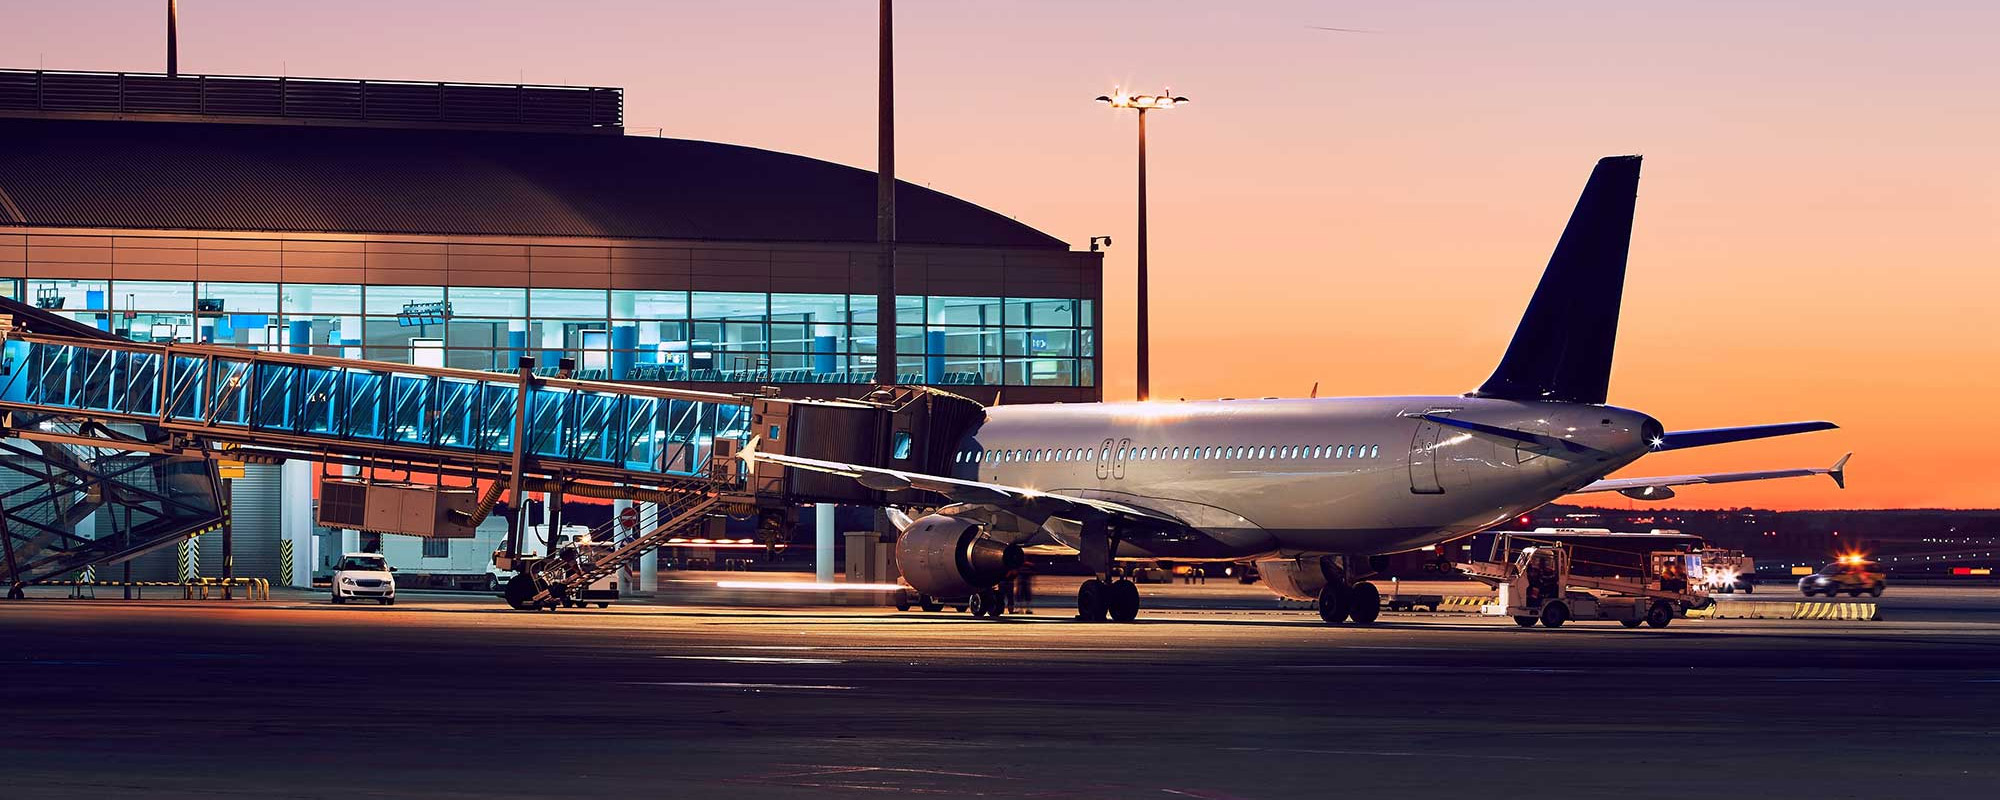
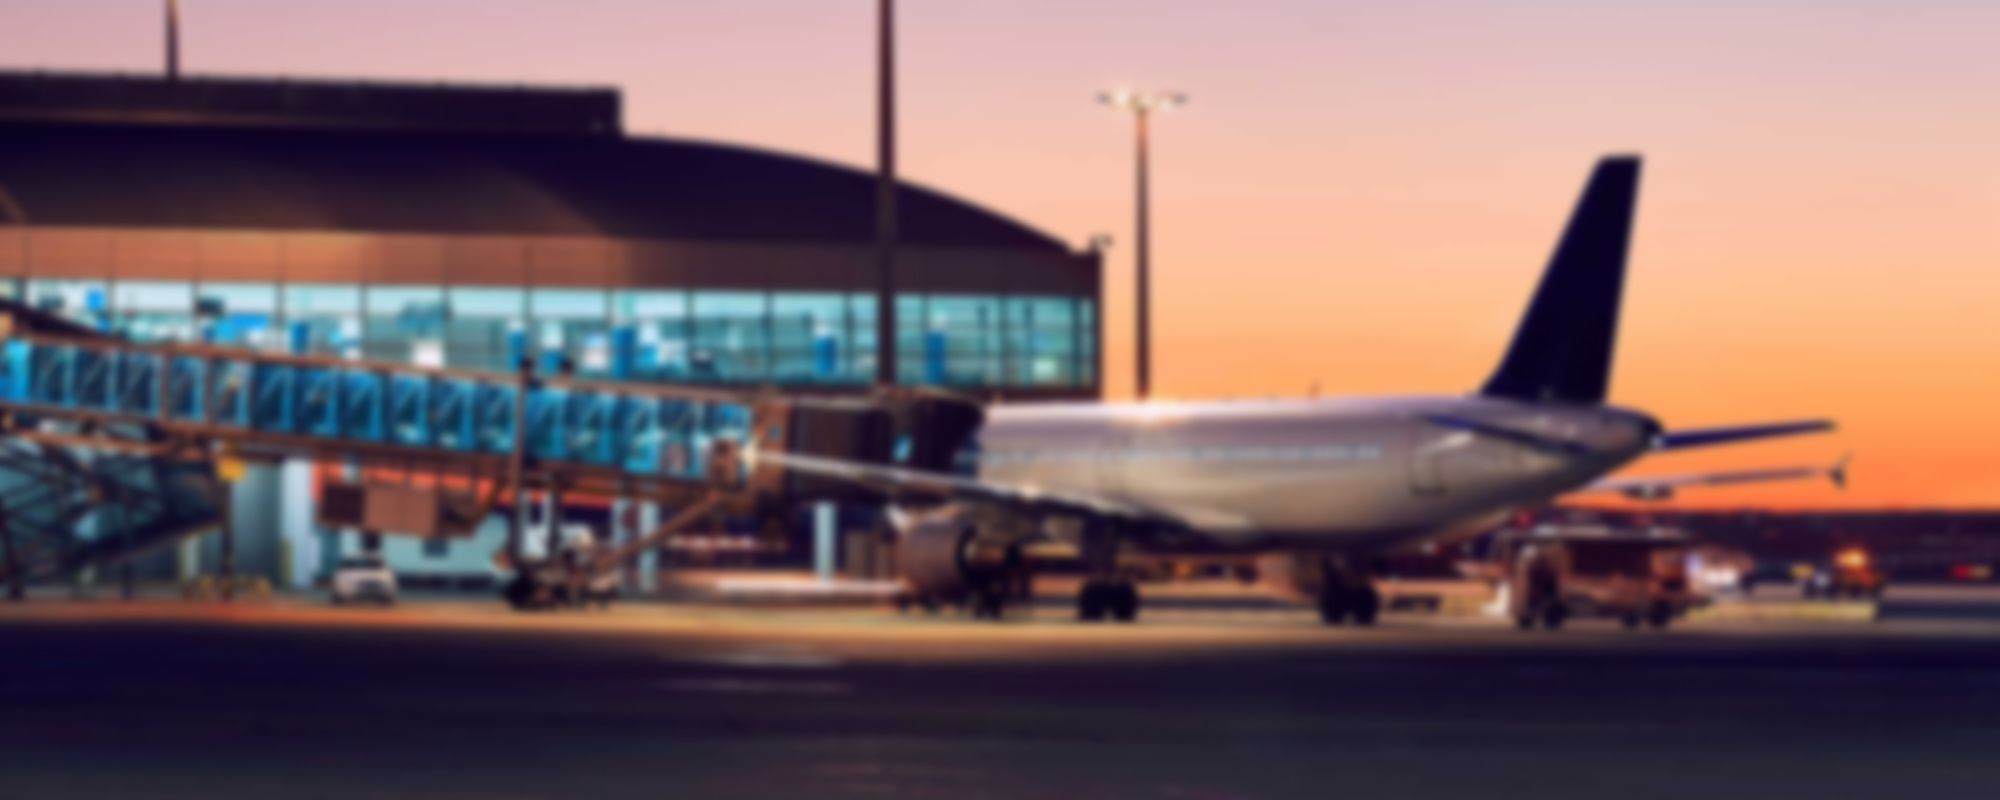
Update front page hero

diff --git a/view/src/components/TypeText/index.tsx b/view/src/components/TypeText/index.tsx
@@ -1,15 +1,86 @@
-import type { FunctionComponent } from "react";
 import './style.css';
+import styled, { keyframes } from "styled-components";
 
-interface TypeTextProps {
-  text: string,
-}
+const typing = keyframes`
+  from {
+    width: 0%
+  }
 
-const TypeText: FunctionComponent<TypeTextProps> = ({ text }) => {
+  to {
+    width: 100%;
+  }
+`;
+
+const fadeBg = keyframes`
+  from {
+    background-color: transparent;
+  }
+
+  to {
+    background-color: #ffcfb7;
+    color: black;
+  }
+`;
+
+const Typing = styled.div`
+  position: absolute;
+  left: 8vw;
+  top: 30vh;
+  font-family: -apple-system, BlinkMacSystemFont, 'Segoe UI', Roboto, Oxygen, Ubuntu, Cantarell, 'Open Sans', 'Helvetica Neue', sans-serif;
+  display: inline-block;
+  color: black;
+`;
+
+const TypedText = styled.div`
+  display: inline-block;
+  overflow: hidden;
+  letter-spacing: 2px;
+  animation:
+    ${typing} 1s steps(30, end) forwards,
+    ${fadeBg} .2s ease-in forwards 3s;
+  white-space: nowrap;
+  font-size: 4rem;
+  font-weight: 700;
+  border-right: 4px solid orange;
+  box-sizing: border-box;
+  color: orange;
+  font-family: "Helvetica Neue", sans-serif;
+`;
+
+const RoundedButton = styled.button`
+  background: #ffcfb7;
+  justify-content: space-between;
+  border: none;
+  border-radius: 0;
+  color: #000000;
+  &:hover {
+    background: white;
+    color: black;
+    transition: background .3s ease-in;
+  }
+`;
+
+const TypeText = ({ text, actions }: { text: string, actions: { name: string, onClick: () => void }[] }) => {
   return (
-    <div className="typing">
-      <div className="type-text">{text}</div>
-    </div>
+    <>
+      <Typing>
+        <TypedText>{text}</TypedText>
+        <div>
+          {actions.map((action, idx) =>
+            <RoundedButton
+              key={`act-${idx}`}
+              onClick={action.onClick}
+            >
+              <svg xmlns="http://www.w3.org/2000/svg" width="16" height="16" fill="currentColor" viewBox="0 0 16 16">
+                <path fill-rule="evenodd" d="M1 8a.5.5 0 0 1 .5-.5h11.793l-3.147-3.146a.5.5 0 0 1 .708-.708l4 4a.5.5 0 0 1 0 .708l-4 4a.5.5 0 0 1-.708-.708L13.293 8.5H1.5A.5.5 0 0 1 1 8"/>
+              </svg>
+              {` ${action.name}`}
+            </RoundedButton>
+          )}
+        </div>
+      </Typing>
+      
+    </>
   );
 };
 

diff --git a/view/src/components/FrontPage/index.tsx b/view/src/components/FrontPage/index.tsx
@@ -13,6 +13,7 @@ import type { CommentData } from "../../types";
 import { useQuery, useMutation, useQueryClient } from "@tanstack/react-query";
 import AlertContext from "../../AlertContext";
 import UserContext from "../../UserContext";
+import { useNavigate } from "react-router";
 
 const toTop = () => window.scrollTo({ top: 0, behavior: "smooth" });
 
@@ -20,6 +21,7 @@ const FrontPage: FunctionComponent = () => {
   const queryClient = useQueryClient();
   const [user] = useContext(UserContext);
   const showAlert = useContext(AlertContext);
+  const navigate = useNavigate();
 
   const { data: comments = [], isLoading } = useQuery<CommentData[]>({
     queryKey: ["comments"],
@@ -51,18 +53,34 @@ const FrontPage: FunctionComponent = () => {
   });
 
   return (
-    <div style={{ color: 'white', height: '100%' }}>
+    <div>
       <ScrollButton toTop={toTop} />
 
       <ImageParallax
         src={content.thumbnail1}
       />
 
-      <TypeText text="Book the vacation of your life." />
+      <TypeText
+         text="Book the vacation of your life." 
+         actions={[
+          {
+            name: "Pricing",
+            onClick: () => navigate("/prices")
+          },
+          {
+            name: "Blog",
+            onClick: () => navigate("/blog")
+          },
+          {
+            name: "Contact us",
+            onClick: () => navigate("/contact")
+          },
+         ]}
+      />
 
 
-      <div style={{ padding: '80px', background: " linear-gradient(0deg,rgba(153, 153, 153, 1) 0%, rgba(250, 238, 232, 1) 47%, rgba(255, 250, 250, 1) 79%, rgba(255, 255, 255, 1) 100%)" }}>
-        <div style={{ background: 'white', padding: '40px' }}>
+      <div style={{ padding: '80px' }}>
+        <div style={{ background: '#e6c9b9', padding: '40px' }}>
           <hr style={{ marginBottom: 100 }}></hr>
           <section
             className="info-section"
@@ -116,6 +134,10 @@ const FrontPage: FunctionComponent = () => {
           <hr style={{ margin: 100 }}></hr>
           <h1 style={{ textAlign: "center" }}>Recent blog posts</h1>
           <RecentBlogPosts />
+
+          <hr style={{ margin: 100 }}></hr>
+          <h1 style={{ textAlign: "center" }}>Check out the Wiki</h1>
+          <p>Here's some posts done by people like you.</p>
 
           <hr style={{ margin: 100 }}></hr>
 

diff --git a/view/src/index.css b/view/src/index.css
@@ -46,64 +46,7 @@ a {
   text-decoration: none;
 }
 
-.typing {
-  position: absolute;
-  left: 8vw;
-  top: 30vh;
-  font-family: -apple-system, BlinkMacSystemFont, 'Segoe UI', Roboto, Oxygen, Ubuntu, Cantarell, 'Open Sans', 'Helvetica Neue', sans-serif;
-  display: inline-block;
-  color: black;
-}
 
-.type-text {
-  display: inline-block;
-  overflow: hidden;
-  letter-spacing: 2px;
-  animation:
-    typing 3s steps(30, end) forwards,
-    fadeBg .2s ease-in forwards 3s,
-    blink .5s step-end infinite;
-  white-space: nowrap;
-  font-size: 4rem;
-  font-weight: 700;
-  border-right: 4px solid orange;
-  box-sizing: border-box;
-  color: rgb(255, 255, 255);
-  font-family: "Helvetica Neue", sans-serif;
-}
-
-@keyframes typing {
-  from {
-    width: 0%
-  }
-
-  to {
-    width: 100%;
-  }
-}
-
-@keyframes fadeBg {
-  from {
-    background-color: transparent;
-  }
-
-  to {
-    background-color: white;
-    color: black;
-  }
-}
-
-@keyframes blink {
-
-  from,
-  to {
-    border-color: transparent
-  }
-
-  50% {
-    border-color: black;
-  }
-}
 
 button {
   background-color: white;

diff --git a/view/src/components/ImageParallax/index.tsx b/view/src/components/ImageParallax/index.tsx
@@ -9,8 +9,7 @@ const ImageParallax: FunctionComponent<ImageParallaxProps> = ({ src }) => {
   return (
     <div style={{
       backgroundImage: `url(${src})`,
-      minHeight: "70vh",
-      backgroundAttachment: "fixed",
+      minHeight: "100vh",
       backgroundPosition: "center",
       backgroundRepeat: "no-repeat",
       backgroundSize: "cover"

diff --git a/view/src/colors.ts b/view/src/colors.ts
@@ -1,0 +1,1 @@
+export const PEACH = "#ffcfb7";
